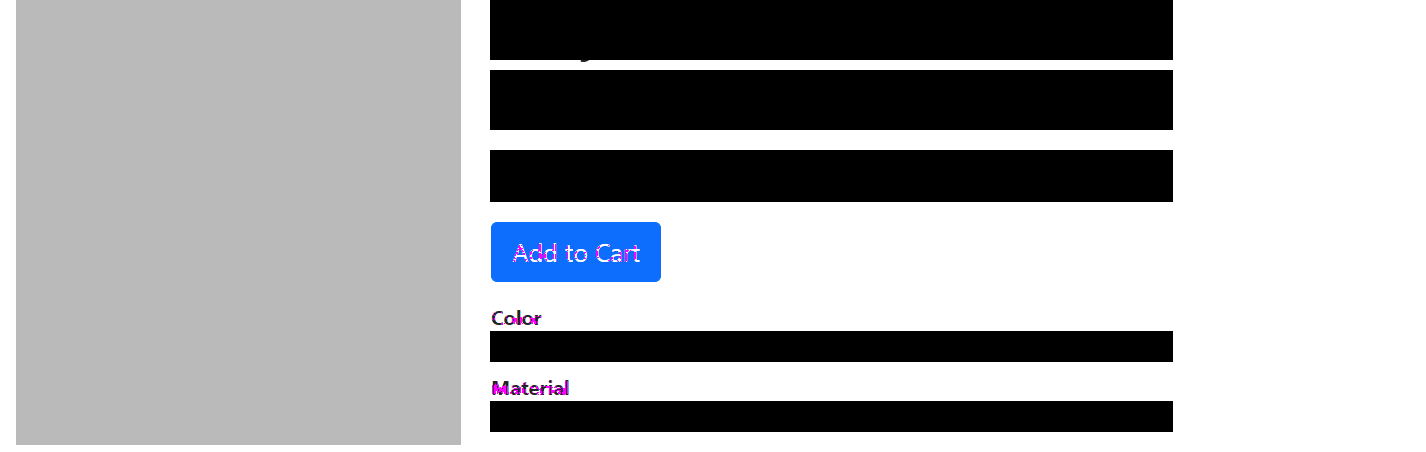
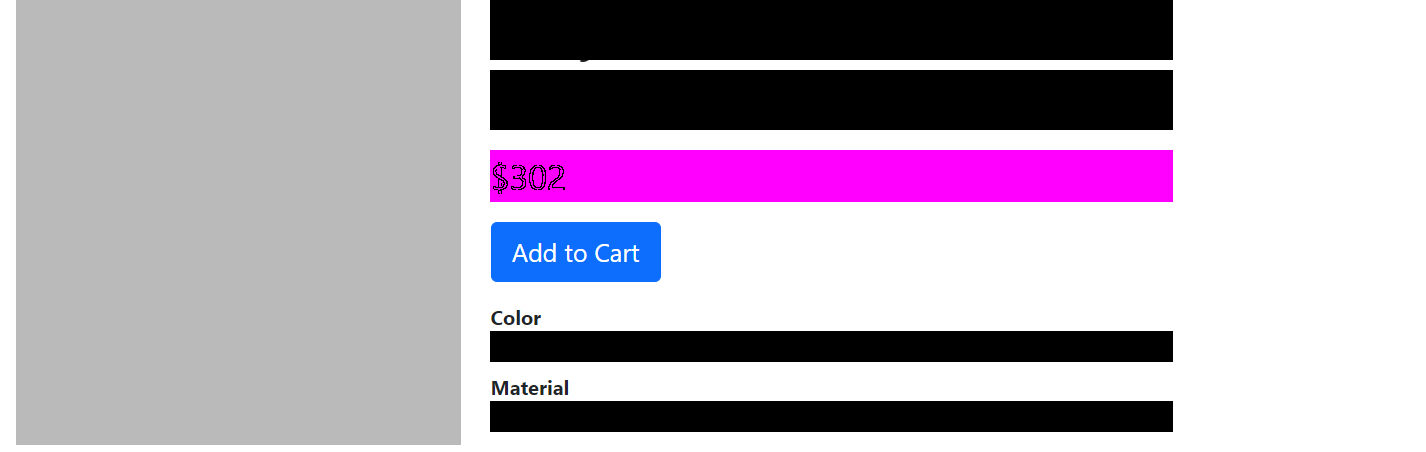
revert

diff --git a/hermione-html-report/data.js b/hermione-html-report/data.js
@@ -1,2 +1,2 @@
-var data = {"skips":[],"config":{"defaultView":"all","baseHost":"","scaleImages":false,"errorPatterns":[],"metaInfoBaseUrls":{},"customScripts":[],"yandexMetrika":{"counterNumber":null},"pluginsEnabled":false,"plugins":[]},"apiValues":{"extraItems":{},"metaInfoExtenders":{},"imagesSaver":{"saveImg":"async (srcCurrPath, {destPath, reportDir}) => {\n        await utils.copyFileAsync(srcCurrPath, destPath, reportDir);\n\n        return destPath;\n    }"},"reportsSaver":null},"date":"Mon Oct 25 2021 23:38:31 GMT+0300 (Москва, стандартное время)"};
+var data = {"skips":[],"config":{"defaultView":"all","baseHost":"","scaleImages":false,"errorPatterns":[],"metaInfoBaseUrls":{},"customScripts":[],"yandexMetrika":{"counterNumber":null},"pluginsEnabled":false,"plugins":[]},"apiValues":{"extraItems":{},"metaInfoExtenders":{},"imagesSaver":{"saveImg":"async (srcCurrPath, {destPath, reportDir}) => {\n        await utils.copyFileAsync(srcCurrPath, destPath, reportDir);\n\n        return destPath;\n    }"},"reportsSaver":null},"date":"Tue Oct 26 2021 01:18:12 GMT+0300 (Москва, стандартное время)"};
 try { module.exports = data; } catch(e) {}

diff --git a/test/hermione/example.hermione.js b/test/hermione/example.hermione.js
@@ -70,13 +70,16 @@ describe("static-screens-test", () => {
         await this.browser.assertView('detalis', '.ProductDetails', {
             ignoreElements: ['.ProductDetails-Name', 
             '.ProductDetails-Description', 
-            '.ProductDetails-Price',
+            '.ProductDetails-Price fs-3',
             '.ProductDetails-Color',
             '.ProductDetails-Material'
             ],
             compositeImage: true
         });
 
+    })
+    
+    it('cart-default', async function() {
         await this.browser.url('/hw/store/Cart');
         await this.browser.$('.col').scrollIntoView();
         await this.browser.assertView('cart-default', '.col');
@@ -243,6 +246,5 @@ describe('Общие тесты', () => {
         const welcom = await this.browser.$('.alert-heading');
         await welcom.waitForExist({timeout:2000});
         assert.equal(await welcom.getText(), 'Well done!');
-
     })
 })
